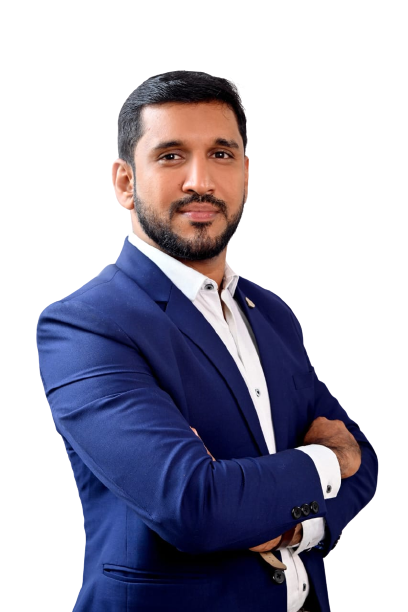
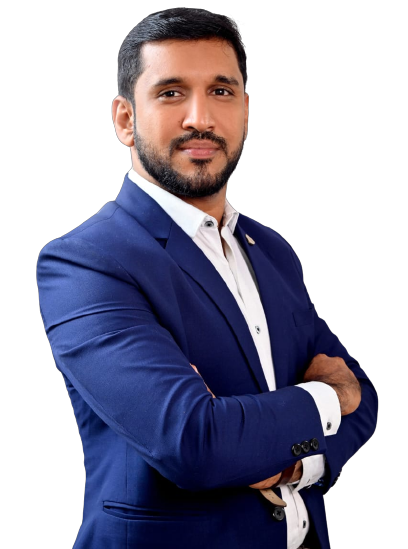
final edit commit

Changed region(s): [[0.0882, 0.0, 0.9412, 0.9909], [0.1765, 0.929, 0.2059, 0.9909], [0.2941, 0.7122, 0.3235, 0.7432]]

diff --git a/index.html b/index.html
@@ -5,7 +5,7 @@
     <title>Camscript</title>
     <meta charset="utf-8">
     <meta name="viewport" content="width=device-width, initial-scale=1, shrink-to-fit=no">
-    <link rel="icon" type="image/x-icon" href="/images/camscript-icon.png">
+    <link rel="icon" type="image/x-icon" href="/images/camskript-icon.png">
     <link href="https://fonts.googleapis.com/css?family=Poppins:300,400,500,600,700,800,900&display=swap"
         rel="stylesheet">
 
@@ -28,7 +28,7 @@
     <nav class="navbar navbar-expand-lg navbar-dark ftco_navbar bg-dark ftco-navbar-light " id="ftco-navbar">
         <div class="container">
             <!-- <a class="navbar-brand" href="index.html">CAM<span>SCRIPT</span></a> -->
-            <img src="images/camscriptlogo.jpg" alt="" width="190px">
+            <img src="images/camskript-logo.png" alt="" width="100px">
             <form action="#" class="searchform order-sm-start order-lg-last">
                 <div class="form-group d-flex">
                     <div class="col d-flex justify-content-end">
@@ -151,12 +151,10 @@
             <div class="row d-flex no-gutters">
                 <div class="col-md-6 d-flex">
                     <div
-                        class="img img-video d-flex align-self-stretch align-items-center justify-content-center justify-content-md-end mb-4 mb-sm-0">
-                        <img src="images/camscript-ceo.png" alt="" width="100%" height="400px"
+                        class="img img-video d-flex align-self-stretch align-items-center   justify-content-md-end mb-4 mb-sm-0">
+                        <img src="images/camscript-ceo.png" alt="" width="100%" height="450px"
                             style="object-fit: contain;">
-                        <!-- <a href="https://vimeo.com/45830194"
-                            class="icon-video popup-vimeo d-flex justify-content-center align-items-center">
-                            <span class="fa fa-play"></span> -->
+                         
                         </a>
                     </div>
                 </div>
@@ -450,7 +448,7 @@
                                         </div>
                                         <div class="text pl-3">
                                             <p><span>Email:</span> <a
-                                                    href="mailto:info@yoursite.com">info@yoursite.com</a></p>
+                                                    href="mailto:info@yoursite.com">info@camskript.com</a></p>
                                         </div>
                                     </div>
                                     <div class="dbox w-100 d-flex align-items-center">
@@ -578,13 +576,7 @@
 
 
 
-        <script src="https://code.jquery.com/jquery-3.6.0.min.js"></script>
-
-        <script src="https://code.jquery.com/jquery-3.6.0.min.js"></script>
-
-
-        <!-- Include jQuery library -->
-        <script src="https://code.jquery.com/jquery-3.6.0.min.js"></script>
+   
 
 
 

diff --git a/css/style.css b/css/style.css
@@ -45,7 +45,6 @@ html {
   line-height: 1.15;
   -webkit-text-size-adjust: 100%;
   -webkit-tap-highlight-color: rgba(0, 0, 0, 0);
-  scroll-behavior: smooth;
 }
 
 article, aside, figcaption, figure, footer, header, hgroup, main, nav, section {
